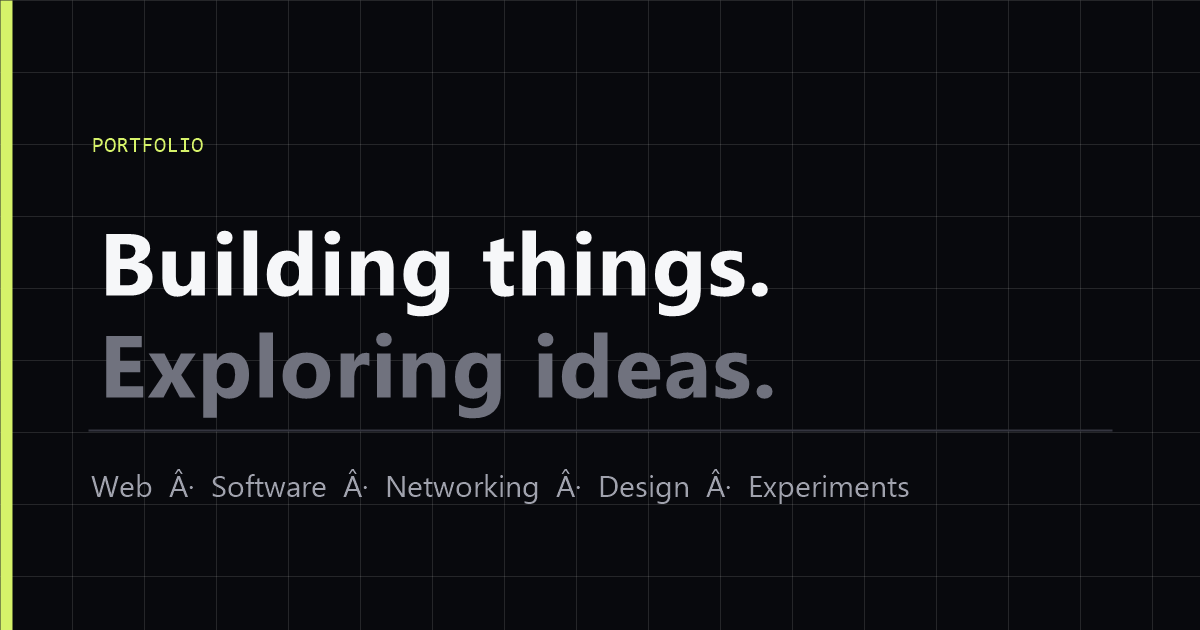
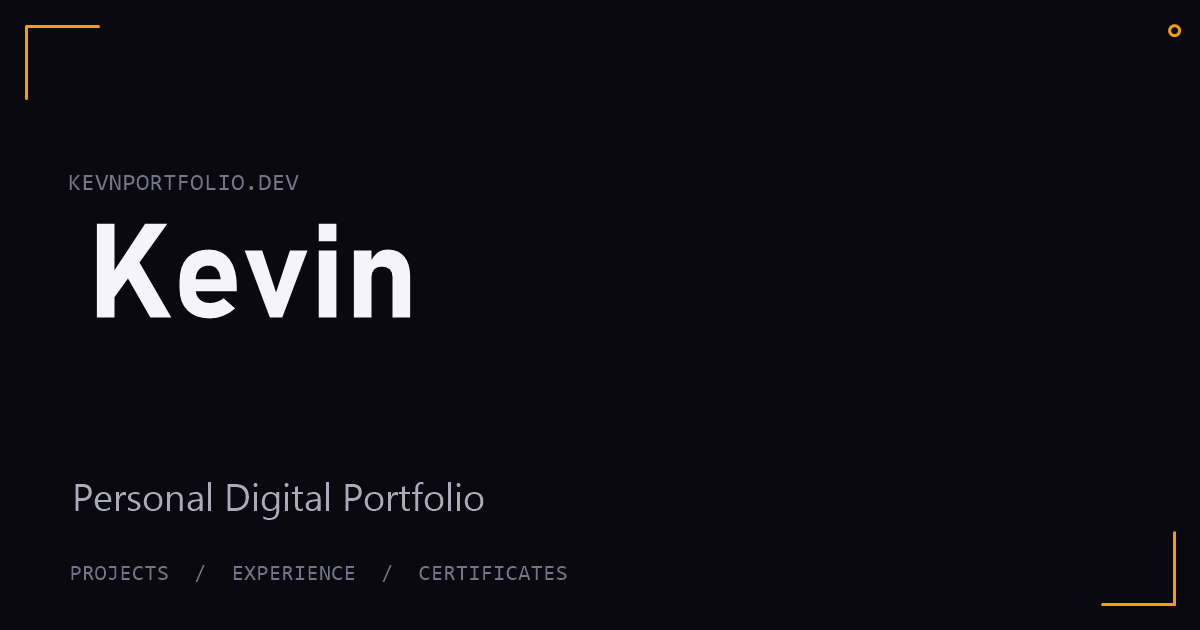
Drop the dead LinkedIn link and draw a social card in the current identity
The footer, contact page and mobile drawer all walked a placeholder URL
(linkedin.com/in/username) that went nowhere a crawl could index; the entry is
removed rather than pointed at a profile that may not exist, and a real URL can
be added back when confirmed. That leaves GitHub and Twitter as the two social
links the array renders.

The og card is redrawn for the redesign: the page's own near-black (9 9 15) as
the sheet, thin amber corner brackets echoing the hero art, the wordmark in the
display face at its familiar scale, and the descriptor plus the three sections
as muted mono. The 45KB v1 card - which still carried the old identity - is
gone.

themeColor is corrected to 09090F to match the --bg token it claims to match;
the previous value (0E0D12) was a near-black a shade off from the page it
surrounds.

diff --git a/src/config/site.ts b/src/config/site.ts
@@ -40,8 +40,8 @@ export const siteConfig = {
    */
   descriptor: 'Personal Digital Portfolio',
   /* A noun phrase, not a sentence. Used in the footer and in metadata. */
-  description:
-    'Projects, experience and certificates.',  /**
+  description: 'Projects, experience and certificates.',
+  /**
    * One sentence that says what the visitor will find here. Deliberately
    * concrete: it names the four sections instead of describing a feeling.
    */
@@ -62,10 +62,14 @@ export const siteConfig = {
   ogImage: '/images/og-image.png',
   /** Placeholder address — replace with the real one before deploying. */
   email: process.env.NEXT_PUBLIC_CONTACT_EMAIL?.trim() || 'kevinputras798@gmail.com',
+  /*
+   * No LinkedIn yet: the only URL available was a placeholder. The entry stays
+   * out until the owner confirms the real profile, so a dead link can never
+   * ship again.
+   */
   links: {
     github: 'https://github.com/KevinPutraS',
     twitter: 'https://x.com/KevnPutraS',
-    linkedin: 'https://linkedin.com/in/username',
   },
   get contactEmail() {
     return `mailto:${this.email}`
@@ -138,7 +142,6 @@ export const siteConfig = {
 export const socialLinks = [
   { label: 'GitHub', href: siteConfig.links.github },
   { label: 'Twitter', href: siteConfig.links.twitter },
-  { label: 'LinkedIn', href: siteConfig.links.linkedin },
 ] as const
 
 /**

diff --git a/src/app/layout.tsx b/src/app/layout.tsx
@@ -87,9 +87,10 @@ export const metadata: Metadata = {
 }
 
 export const viewport: Viewport = {
-  // Matches `--bg` (10 13 18) in globals.css. It was still the pre-redesign
-  // #08090D, so the browser chrome and the page did not quite agree.
-  themeColor: '#0E0D12',
+  // Matches `--bg` (9 9 15) in globals.css. It used to be #0E0D12, which the
+  // browser chrome rendered a shade off from the page it surrounded. And it was
+  // #08090D before that. The token file is the only authority that has held.
+  themeColor: '#09090F',
   colorScheme: 'dark',
   width: 'device-width',
   initialScale: 1,
